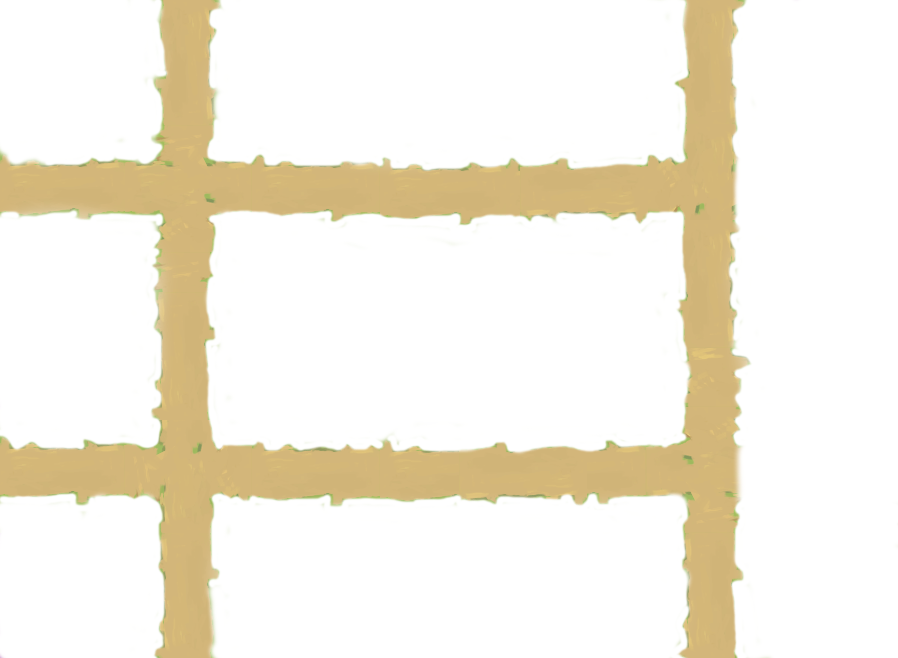
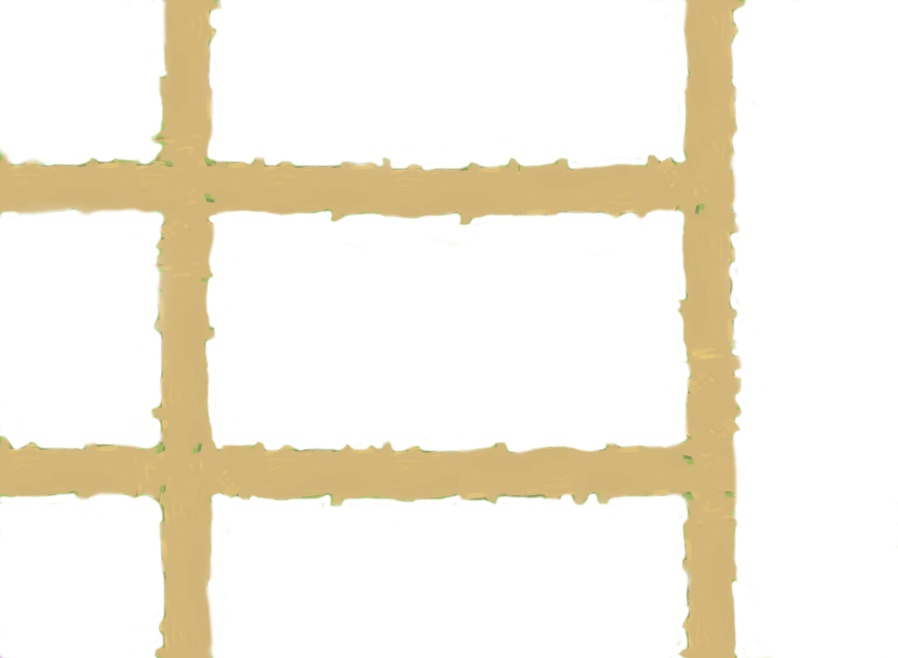
repair movemnet system

diff --git a/source/back/Wave.py b/source/back/Wave.py
@@ -17,15 +17,11 @@ class Wave:
         self.screen = screen_
         self.level_up_counter = -1
         self.wave_counter = 0
-        self.fill_monsters(monster)
-        self.road = []
+        self.road = ["empty"]
         self.point = None
+        self.fill_monsters(monster)
 
-        self.random_point()
-        self.random_road()
-
-    @staticmethod
-    def read_points():
+    def read_points(self):
         points = {}
         with open('source\\texts\\start_points.txt', 'r') as r:
             data = r.readlines()
@@ -55,7 +51,11 @@ class Wave:
         roads.append([point[1], point[0], opposite[point[1]], point[0]])
 
         for i in roads:
-            if i[-1] != 'right' and i[0] != 'right':
+            if i[-1] != 'right':
+                temp_roads.append(i)
+            elif point[0] == 'down' and i[0] != 'right':
+                temp_roads.append(i)
+            elif point[0] == 'down' and i[1] != 'right':
                 temp_roads.append(i)
 
         return temp_roads
@@ -63,13 +63,12 @@ class Wave:
     def random_road(self):
         roads = self.create_possible_roads()
         self.road = random.choice(roads)
-        print(self.point)
-        print(self.road)
 
     def fill_monsters(self, monster):
         self.wave_counter += 1
         self.random_point()
         self.random_road()
+
         point_x = list(self.point.values())[0][0]
         point_y = list(self.point.values())[0][1]
         point_direction = list(self.point.keys())[0][0]
@@ -114,9 +113,9 @@ class Wave:
             return False
 
     def check_if_monster_out_of_board(self, monster):
-        left_edge = monster.x < 0 and len(self.road) == 0
-        top_edge = monster.y < 0 and len(self.road) == 0
-        down_edge = monster.y > 626 and len(self.road) == 0
+        left_edge = monster.x < -44 and monster.direction == 'left'
+        top_edge = monster.y < -44 and monster.direction == 'up'
+        down_edge = monster.y > 626 and monster.direction == 'down'
 
         return left_edge or top_edge or down_edge
 
@@ -128,14 +127,20 @@ class Wave:
 
         return True
 
+    def check_if_last_monster(self, monster):
+        length = len(self.monsters)
+        index = self.monsters.index(monster)
+
+        return (length - 1) == index
+
     def update_positions(self):
 
-        point_1 = pygame.Rect(175, 145, 1, 1)
-        point_2 = pygame.Rect(695, 145, 1, 1)
-        point_3 = pygame.Rect(175, 430, 1, 1)
-        point_4 = pygame.Rect(695, 430, 1, 1)
+        point_1 = pygame.Rect(185, 440, 5, 5)
+        point_2 = pygame.Rect(185, 155, 5, 5)
+        point_3 = pygame.Rect(705, 440, 5, 5)
+        point_4 = pygame.Rect(705, 155, 5, 5)
 
-        flag = False
+        last_monster_collision = False
         print(self.road)
 
         for m in self.monsters:
@@ -151,28 +156,82 @@ class Wave:
             elif m.direction == 'right':
                 m.x += m.speed
 
-            if 173 < m.x < 178 and 428 < m.y < 433:
-                print('col')
-                flag = True
-                m.direction = self.road[0]
-
-            elif 173 < m.x < 178 and 143 < m.y < 148:
-                print('col')
-                flag = True
-                m.direction = self.road[0]
-
-            elif 693 < m.x < 698 and 428 < m.y < 433:
-                print('col')
-                flag = True
-                m.direction = self.road[0]
-
-            elif 693 < m.x < 698 and 143 < m.y < 148:
-                print('col')
-                flag = True
-                m.direction = self.road[0]
-
             m.update_coordinates(m.x, m.y)
+            print(m.coordinates.center)
+            center_x = m.coordinates.center[0]
+            center_y = m.coordinates.center[1]
+
+            # if 173 < m.x < 178 and 433 < m.y < 438:
+            #     m.direction = self.road[0]
+            #
+            #     if self.check_if_last_monster(m):
+            #         print(len(self.monsters))
+            #         print(self.monsters.index(m))
+            #         last_monster_collision = True
+            #
+            # elif 173 < m.x < 178 and 142 < m.y < 147:
+            #     m.direction = self.road[0]
+            #
+            #     if self.check_if_last_monster(m):
+            #         print(len(self.monsters))
+            #         print(self.monsters.index(m))
+            #         last_monster_collision = True
+            #
+            # elif 695 < m.x < 698 and 432 < m.y < 436:
+            #     m.direction = self.road[0]
+            #
+            #     if self.check_if_last_monster(m):
+            #         print(len(self.monsters))
+            #         print(self.monsters.index(m))
+            #         last_monster_collision = True
+            #
+            # elif 695 < m.x < 698 and 140 < m.y < 144:
+            #     m.direction = self.road[0]
+            #
+            #     if self.check_if_last_monster(m):
+            #         print(len(self.monsters))
+            #         print(self.monsters.index(m))
+            #         last_monster_collision = True
+
+            if 186 < center_x < 189 and 156 < center_y < 159:
+                m.direction = self.road[0]
+
+                if self.check_if_last_monster(m):
+                    print(len(self.monsters))
+                    print(self.monsters.index(m))
+                    last_monster_collision = True
+
+            elif 707 < center_x < 710 and 156 < center_y < 159:
+                m.direction = self.road[0]
+
+                if self.check_if_last_monster(m):
+                    print(len(self.monsters))
+                    print(self.monsters.index(m))
+                    last_monster_collision = True
+
+            elif 186 < center_x < 190 and 441 < center_y < 444:
+                m.direction = self.road[0]
+
+                if self.check_if_last_monster(m):
+                    print(len(self.monsters))
+                    print(self.monsters.index(m))
+                    last_monster_collision = True
+
+            elif 707 < center_x < 710 and 441 < center_y < 444:
+                m.direction = self.road[0]
+
+                if self.check_if_last_monster(m):
+                    print(len(self.monsters))
+                    print(self.monsters.index(m))
+                    last_monster_collision = True
+
+            m.change_direction_image()
             self.screen.blit(m.image, (m.x, m.y))
 
-        if self.check_if_all_monster_has_same_direction() and flag:
+            if self.check_if_monster_out_of_board(m):
+                print('dead!')
+                self.monsters.remove(m)
+                self.game.decrease_lives()
+
+        if last_monster_collision:
             self.road.pop(0)

diff --git a/source/back/Monster.py b/source/back/Monster.py
@@ -1,4 +1,5 @@
 import pygame
+from ..texts import constatnts
 
 
 class Monster:
@@ -7,13 +8,17 @@ class Monster:
         self.health = health_
         self.prize = prize_
         self.image_name = image_name
-        self.image = pygame.image.load('source\\images\\' + image_name + '-0.png')
+        self.image = pygame.image.load('source\\images\\' + image_name + '-0'
+                                                                         '.png')
         self.x = x_
         self.y = y_
         self.direction = direction_
         self.coordinates = pygame.Rect(x_, y_, 26, 26)
         self.original_health = health_
         self.clicked = False
+
+        self.change_direction_image()
+
 
     def decrease_health(self, amount):
         self.health -= amount
@@ -56,3 +61,15 @@ class Monster:
         desc += "Prize:     " + str(self.prize) + '\n'
         # desc += "Level:       " + str(self.level) + '\n'
         return desc
+
+    def change_direction_image(self):
+        pass
+        # if self.direction == 'left':
+        #     self.image = pygame.image.load('source\\images\\' + self.image_name + '_left.png')
+        # elif self.direction == 'right':
+        #     self.image = pygame.image.load('source\\images\\' + self.image_name + '_right.png')
+        # elif self.direction == 'down':
+        #     self.image = pygame.image.load('source\\images\\' + self.image_name + '_down.png')
+        # elif self.direction == 'up':
+        #     self.image = pygame.image.load('source\\images\\' + self.image_name + '_up.png')
+

diff --git a/source/texts/constatnts.py b/source/texts/constatnts.py
@@ -22,7 +22,7 @@ TOWER_IMAGE_SIZE_X = 26
 TOWER_IMAGE_SIZE_Y = 37
 
 BLUE_TOWER_STRENGTH = 20
-BLUE_TOWER_AREA = 100
+BLUE_TOWER_AREA = 150
 BLUE_TOWER_COST = 100
 BLUE_TOWER_PERIOD = 200
 BLUE_TOWER_IMAGE = 'tower_blue.png'
@@ -30,7 +30,7 @@ BLUE_TOWER_ICON_X = 1080
 BLUE_TOWER_ICON_Y = 150
 
 GREEN_TOWER_STRENGTH = 10
-GREEN_TOWER_AREA = 80
+GREEN_TOWER_AREA = 130
 GREEN_TOWER_COST = 25
 GREEN_TOWER_PERIOD = 400
 GREEN_TOWER_IMAGE = 'tower_green.png'
@@ -38,7 +38,7 @@ GREEN_TOWER_ICON_X = 1040
 GREEN_TOWER_ICON_Y = 150
 
 RED_TOWER_STRENGTH = 5
-RED_TOWER_AREA = 60
+RED_TOWER_AREA = 110
 RED_TOWER_COST = 15
 RED_TOWER_PERIOD = 600
 RED_TOWER_IMAGE = 'tower_red.png'
@@ -73,7 +73,7 @@ MAIN_WINDOW_SIDE_MENU_BLIT = (900, 0)
 MAIN_WINDOW_BACKGROUND_ORIGINAL_IMAGE = 'grass1.png'
 MAIN_WINDOW_BACKGROUND_ORIGINAL_IMAGE_BLIT = (0, -30)
 
-MAIN_WINDOW_BACKGROUND_IMAGE = 'grass12.png'
+MAIN_WINDOW_BACKGROUND_IMAGE = 'grass134.png'
 MAIN_WINDOW_BACKGROUND_IMAGE_BLIT = (0, -30)
 
 MAIN_WINDOW_ROAD_IMAGE = 'road111.png'
@@ -90,7 +90,7 @@ MAIN_WINDOW_STATS_WAVES = (995, 50)
 MAIN_WINDOW_STATS_GOLD = (995, 80)
 #MAIN_WINDOW_PLACES_FOR_TOWERS_COLOR = (163, 189, 0)
 MAIN_WINDOW_PLACES_FOR_TOWERS_COLOR = (255, 0, 0)
-MAIN_WINDOW_REFRESH_PERIOD = 120
+MAIN_WINDOW_REFRESH_PERIOD = 140
 MAIN_WINDOWS_DESCRIPTION_FONT_FAMILY = 'cinnamon-cake'
 MAIN_WINDOWS_DESCRIPTION_FONT_COLOR = (0, 0, 0)
 MAIN_WINDOWS_DESCRIPTION_FONT_SIZE = 18

diff --git a/source/front/MainWindow.py b/source/front/MainWindow.py
@@ -1,9 +1,12 @@
-import pygame
+import pygame, os
 import numpy as np
 from itertools import cycle
 from ..back import Button, MonsterB, MonsterG, MonsterR, Game, Wave, Board
 from ..front import HelloMenu, TowerIcons
 from ..texts import constatnts
+
+
+os.environ['SDL_VIDEO_CENTERED'] = '1'
 
 
 class MainWindow:
@@ -96,10 +99,10 @@ class MainWindow:
             pygame.draw.rect(self.screen, constatnts.MAIN_WINDOW_PLACES_FOR_TOWERS_COLOR, i, 1)
             pygame.display.flip()
 
-        point_1 = pygame.Rect(180, 150, 10, 10)
-        point_2 = pygame.Rect(180, 440, 10, 10)
-        point_3 = pygame.Rect(705, 440, 10, 10)
-        point_4 = pygame.Rect(705, 150, 10, 10)
+        point_1 = pygame.Rect(185, 440, 5, 5)
+        point_2 = pygame.Rect(185, 155, 5, 5)
+        point_3 = pygame.Rect(705, 440, 5, 5)
+        point_4 = pygame.Rect(705, 155, 5, 5)
         pygame.draw.rect(self.screen, (255, 0, 0), point_1, 1)
         pygame.draw.rect(self.screen, (255, 0, 0), point_2, 1)
         pygame.draw.rect(self.screen, (255, 0, 0), point_3, 1)

diff --git a/source/main.py b/source/main.py
@@ -1,10 +1,12 @@
-import pygame
+import pygame, os
 from source.front import HelloMenu
 from source.front import MainWindow
 from source.texts import constatnts
 
 pygame.init()
 pygame.display.set_caption(constatnts.GAME_NAME)
+
+os.environ['SDL_VIDEO_CENTERED'] = '1'
 
 if HelloMenu.HelloMenu(constatnts.HELLO_MENU_TITLE_IMAGE).start() is not None:
     MainWindow.MainWindow().start()

diff --git a/source/back/MonsterG.py b/source/back/MonsterG.py
@@ -32,3 +32,6 @@ class MonsterGreen(Monster.Monster):
 
     def check_if_clicked(self):
         return super(MonsterGreen, self).check_if_clicked()
+
+    def change_direction_image(self):
+        super(MonsterGreen, self).change_direction_image()

diff --git a/source/back/MonsterB.py b/source/back/MonsterB.py
@@ -31,3 +31,6 @@ class MonsterBlue(Monster.Monster):
 
     def check_if_clicked(self):
         return super(MonsterBlue, self).check_if_clicked()
+
+    def change_direction_image(self):
+        super(MonsterBlue, self).change_direction_image()

diff --git a/source/back/MonsterR.py b/source/back/MonsterR.py
@@ -31,3 +31,6 @@ class MonsterRed(Monster.Monster):
 
     def check_if_clicked(self):
         return super(MonsterRed, self).check_if_clicked()
+
+    def change_direction_image(self):
+        super(MonsterRed, self).change_direction_image()
